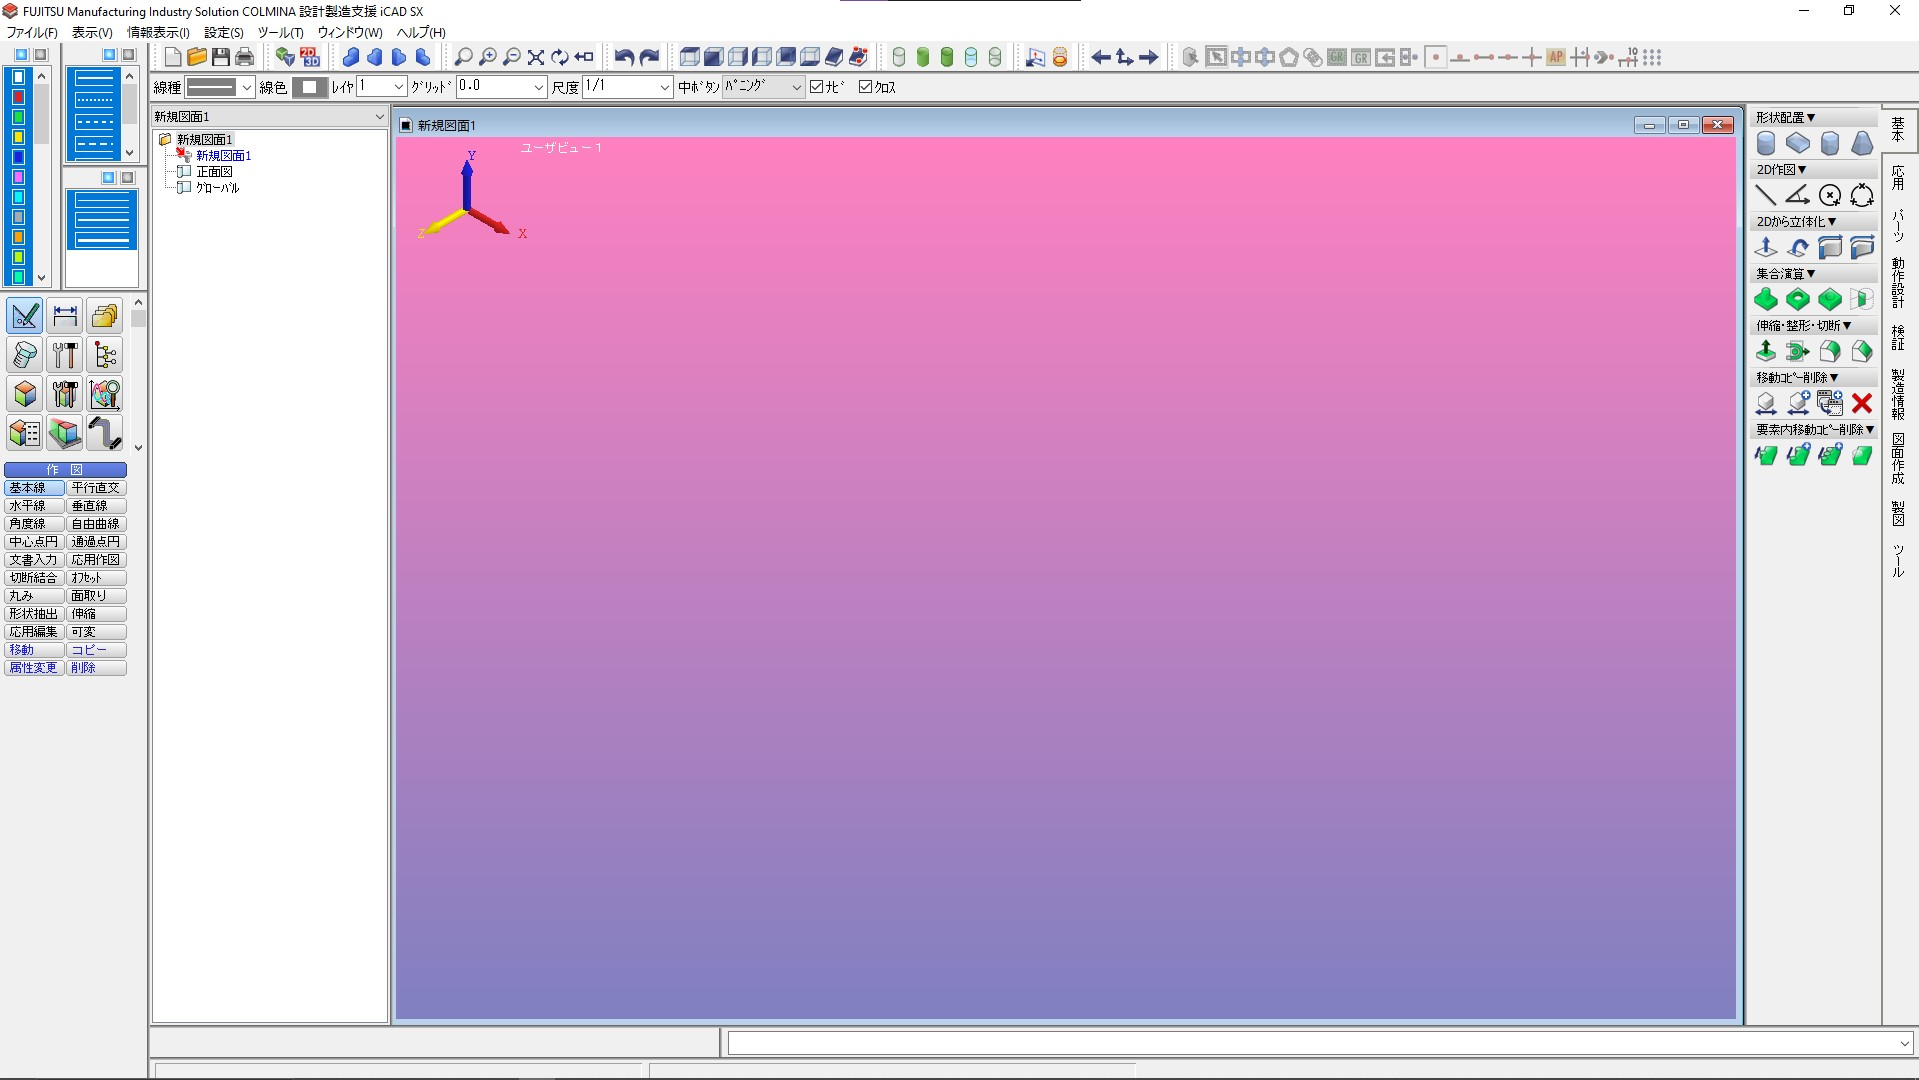
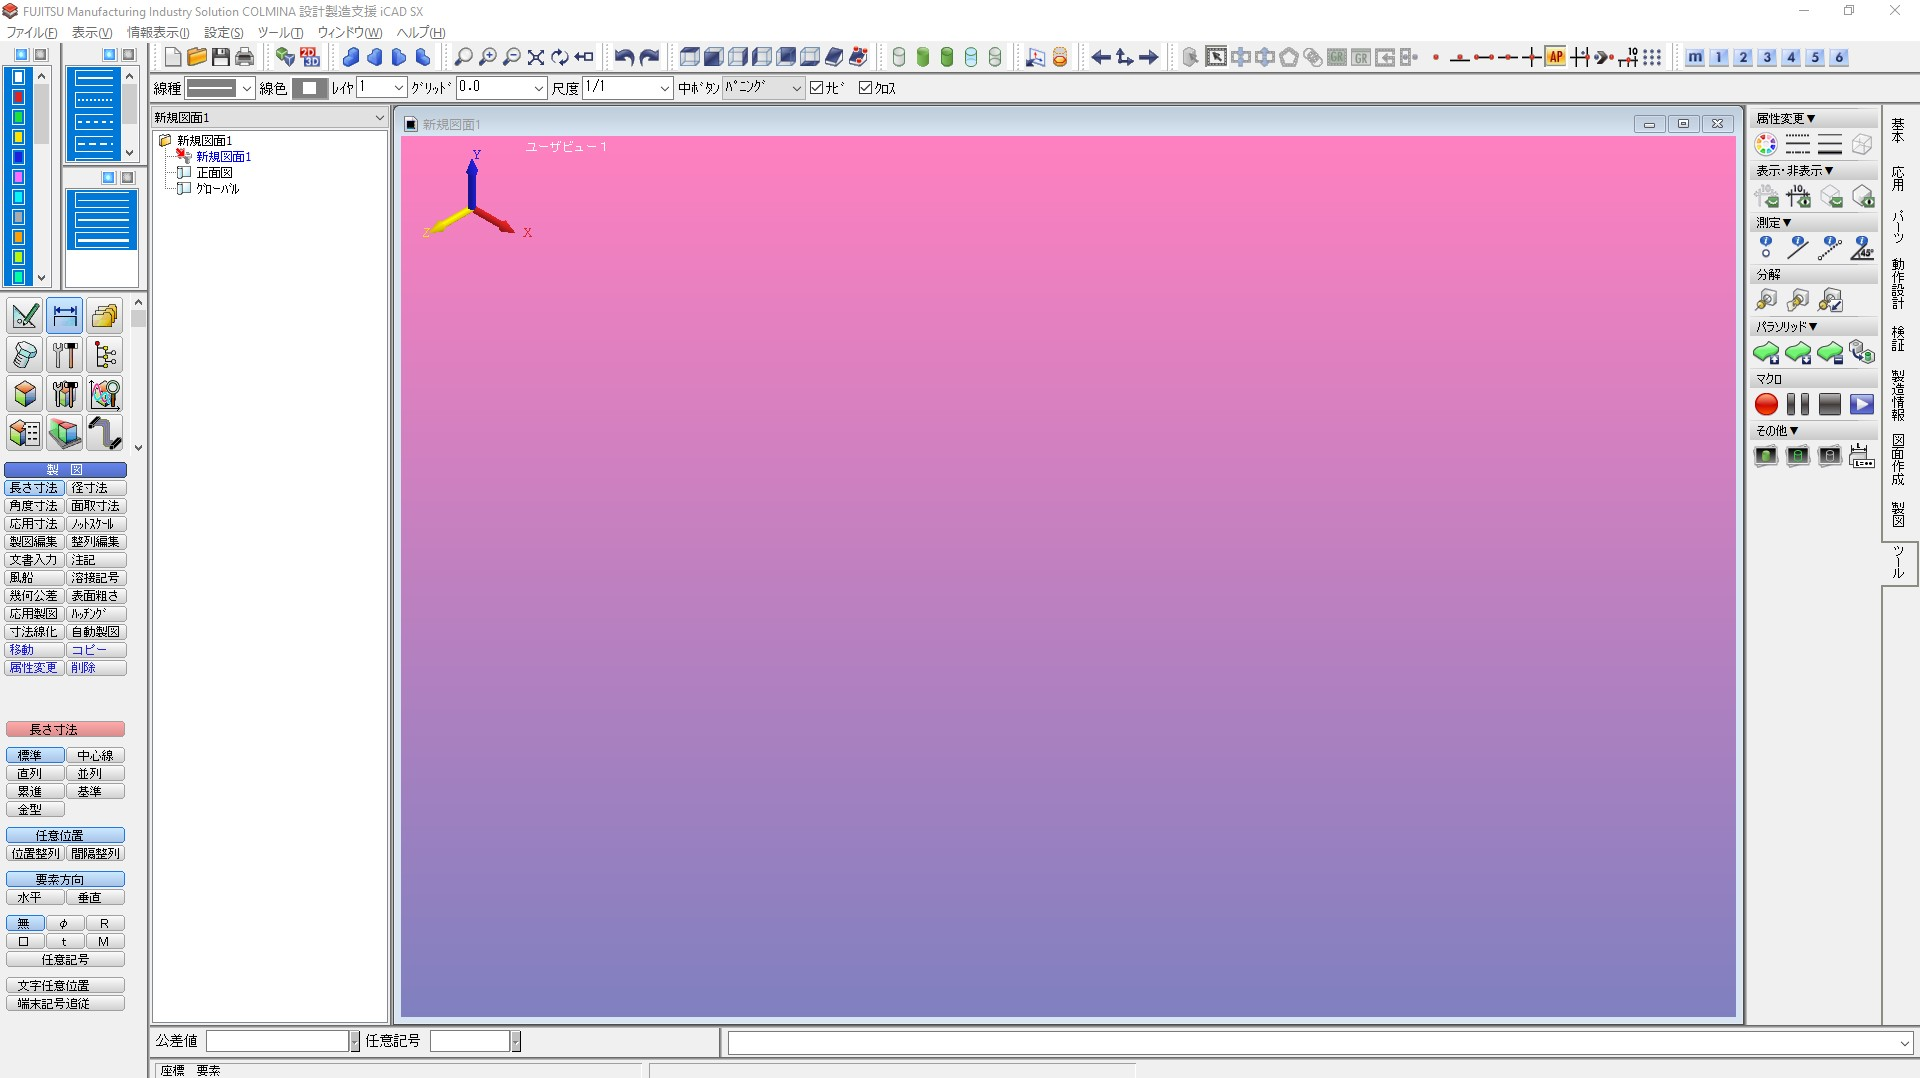
fix: Tool Bars Video Tutorial Modal

Changed region(s): [[0.0, 0.0306, 1.0, 1.0], [0.0, 0.0, 0.2152, 0.0306]]

diff --git a/frontend/src/components/3D_Modeling/VideoTutorialData/ToolBarsTutorial.ts b/frontend/src/components/3D_Modeling/VideoTutorialData/ToolBarsTutorial.ts
@@ -16,26 +16,26 @@ export const TOOLBAR_TUTORIAL_STEPS: TutorialStep[] = [
     text: "Contains new, open, save, print commands.",
     zoom: "scale(1)",
     origin: "10% 10%",
-    spotlight: { top: "4%", left: "0%", width: "8%", height: "4.5%", opacity: 1 },
-    subtitlePos: { top: "15%", left: "5%" }
-  },
-  {
-    id: "2d-view",
-    title: "2D View",
-    text: "Contains Previous View, Switch Views, Next View.",
-    zoom: "scale(1)",
-    origin: "20% 10%",
-    spotlight: { top: "4%", left: "8%", width: "8%", height: "4.5%", opacity: 1 },
-    subtitlePos: { top: "15%", left: "12%" }
+    spotlight: { top: "3.3%", left: "7.8%", width: "6.2%", height: "3.8%", opacity: 1 },
+    subtitlePos: { top: "10%", left: "10.9%", transform: "translateX(-50%)" }
   },
   {
     id: "switch-display",
     title: "Switch Display",
     text: "Contains Change Projection Method, Switch Dimensions.",
     zoom: "scale(1)",
+    origin: "20% 10%",
+    spotlight: { top: "3.3%", left: "13.6%", width: "3.8%", height: "3.8%", opacity: 1 },
+    subtitlePos: { top: "10%", left: "15.5%", transform: "translateX(-50%)" }
+  },
+  {
+    id: "user-views",
+    title: "User View",
+    text: "Contains User View 1, 2, 3, 4 (ISOMETRIC VIEWS).",
+    zoom: "scale(1)",
     origin: "30% 10%",
-    spotlight: { top: "4%", left: "16%", width: "8%", height: "4.5%", opacity: 1 },
-    subtitlePos: { top: "15%", left: "20%" }
+    spotlight: { top: "3.3%", left: "17%", width: "6.3%", height: "3.8%", opacity: 1 },
+    subtitlePos: { top: "10%", left: "20.15%", transform: "translateX(-50%)" }
   },
   {
     id: "screen-ops",
@@ -43,89 +43,80 @@ export const TOOLBAR_TUTORIAL_STEPS: TutorialStep[] = [
     text: "Contains Set Zoom Area, Zoom In/Out, Zoom to Fit, Re-Display, Previous Zoom.",
     zoom: "scale(1)",
     origin: "40% 10%",
-    spotlight: { top: "4%", left: "24%", width: "10%", height: "4.5%", opacity: 1 },
-    subtitlePos: { top: "15%", left: "25%" }
-  },
-  {
-    id: "3d-view",
-    title: "3D View",
-    text: "Contains Top, Front, Right, Left, Back, Bottom, Set a Plane, Set using 3-Points.",
-    zoom: "scale(1)",
-    origin: "50% 10%",
-    spotlight: { top: "4%", left: "34%", width: "12%", height: "4.5%", opacity: 1 },
-    subtitlePos: { top: "15%", left: "30%" }
-  },
-  {
-    id: "user-views",
-    title: "User Views",
-    text: "Contains User View 1, 2, 3, 4 (ISOMETRIC VIEWS).",
-    zoom: "scale(1)",
-    origin: "60% 10%",
-    spotlight: { top: "4%", left: "46%", width: "10%", height: "4.5%", opacity: 1 },
-    subtitlePos: { top: "15%", left: "45%" }
+    spotlight: { top: "3.3%", left: "22.9%", width: "8.8%", height: "3.8%", opacity: 1 },
+    subtitlePos: { top: "10%", left: "27.3%", transform: "translateX(-50%)" }
   },
   {
     id: "edit",
     title: "Edit",
     text: "Contains Undo, Redo.",
     zoom: "scale(1)",
-    origin: "70% 10%",
-    spotlight: { top: "4%", left: "56%", width: "6%", height: "4.5%", opacity: 1 },
-    subtitlePos: { top: "15%", left: "55%" }
+    origin: "50% 10%",
+    spotlight: { top: "3.3%", left: "31.3%", width: "3.7%", height: "3.8%", opacity: 1 },
+    subtitlePos: { top: "10%", left: "33.15%", transform: "translateX(-50%)" }
+  },
+  {
+    id: "3d-view",
+    title: "3D View",
+    text: "Contains Top, Front, Right, Left, Back, Bottom, Set a Plane, Set using 3-Points.",
+    zoom: "scale(1)",
+    origin: "60% 10%",
+    spotlight: { top: "3.3%", left: "34.7%", width: "11.3%", height: "3.8%", opacity: 1 },
+    subtitlePos: { top: "10%", left: "40.35%", transform: "translateX(-50%)" }
   },
   {
     id: "shading",
     title: "Shading",
     text: "Contains Shading, Shading with Frame, Hidden Lines Removed, Wireframe.",
     zoom: "scale(1)",
-    origin: "80% 10%",
-    spotlight: { top: "4%", left: "62%", width: "10%", height: "4.5%", opacity: 1 },
-    subtitlePos: { top: "15%", left: "60%" }
+    origin: "70% 10%",
+    spotlight: { top: "3.3%", left: "45.5%", width: "7.5%", height: "3.8%", opacity: 1 },
+    subtitlePos: { top: "10%", left: "49.25%", transform: "translateX(-50%)" }
   },
   {
     id: "section",
     title: "Section Display",
     text: "Contains Open Work Plane, Switch to Section Display.",
     zoom: "scale(1)",
+    origin: "80% 10%",
+    spotlight: { top: "3.3%", left: "52.7%", width: "3.6%", height: "3.8%", opacity: 1 },
+    subtitlePos: { top: "10%", left: "54.5%", transform: "translateX(-50%)" }
+  },
+  {
+    id: "2d-view",
+    title: "2D View",
+    text: "Contains Previous View, Switch Views, Next View.",
+    zoom: "scale(1)",
     origin: "90% 10%",
-    spotlight: { top: "4%", left: "72%", width: "8%", height: "4.5%", opacity: 1 },
-    subtitlePos: { top: "15%", left: "70%" }
-  },
-  {
-    id: "2d-standard",
-    title: "2D Standard Screen",
-    text: "Contains Set Standard Screen Range, Set Display Screen, Display Standard Screen.",
-    zoom: "scale(1)",
-    origin: "0% 50%",
-    spotlight: { top: "8.5%", left: "2.2%", width: "7.8%", height: "81.5%", opacity: 1 },
-    subtitlePos: { top: "30%", left: "15%" }
-  },
-  {
-    id: "sys-info",
-    title: "System Information",
-    text: "Setting for attributes of entities to be created.",
-    zoom: "scale(1)",
-    origin: "50% 15%",
-    spotlight: { top: "6.2%", left: "0%", width: "100%", height: "2.3%", opacity: 1 },
-    subtitlePos: { top: "12%", left: "50%", transform: "translateX(-50%)" }
-  },
-  {
-    id: "screen-mem",
-    title: "Screen Memory",
-    text: "Stores the currently displayed screen.",
-    zoom: "scale(1)",
-    origin: "100% 50%",
-    spotlight: { top: "8.5%", left: "95%", width: "5%", height: "81.5%", opacity: 1 },
-    subtitlePos: { top: "30%", right: "10%" }
+    spotlight: { top: "3.3%", left: "56.1%", width: "5%", height: "3.8%", opacity: 1 },
+    subtitlePos: { top: "10%", left: "58.6%", transform: "translateX(-50%)" }
   },
   {
     id: "entry-control",
     title: "Entry Control",
     text: "The method for entity selection and coordinate entry can be specified.",
     zoom: "scale(1)",
-    origin: "0% 100%",
-    spotlight: { top: "90%", left: "0%", width: "30%", height: "10%", opacity: 1 },
-    subtitlePos: { bottom: "15%", left: "5%" }
+    origin: "95% 10%",
+    spotlight: { top: "3.3%", left: "60.7%", width: "26.7%", height: "3.8%", opacity: 1 },
+    subtitlePos: { top: "10%", left: "74.05%", transform: "translateX(-50%)" }
+  },
+  {
+    id: "screen-mem",
+    title: "Screen Memory",
+    text: "Stores the currently displayed screen.",
+    zoom: "scale(1)",
+    origin: "100% 10%",
+    spotlight: { top: "3.3%", left: "87.2%", width: "9.5%", height: "3.8%", opacity: 1 },
+    subtitlePos: { top: "10%", right: "2%" }
+  },
+  {
+    id: "entry-tool",
+    title: "Entry Tool",
+    text: "Additional entity selection tools.",
+    zoom: "scale(1)",
+    origin: "100% 10%",
+    spotlight: { top: "6.2%", left: "7.8%", width: "40%", height: "3.8%", opacity: 1 },
+    subtitlePos: { top: "13%", left: "27.8%", transform: "translateX(-50%)" }
   },
   {
     id: "outro",